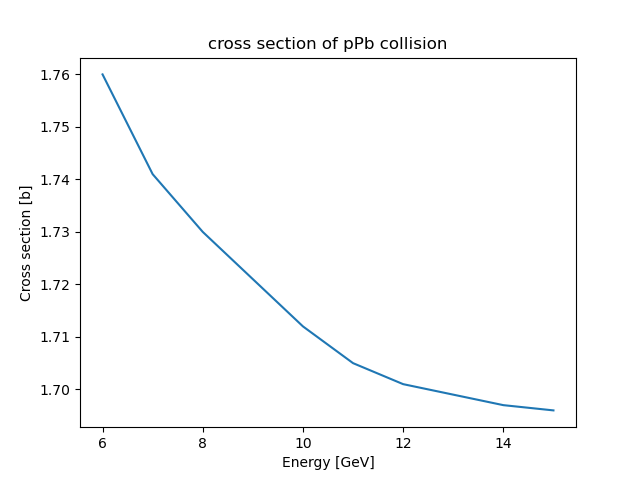
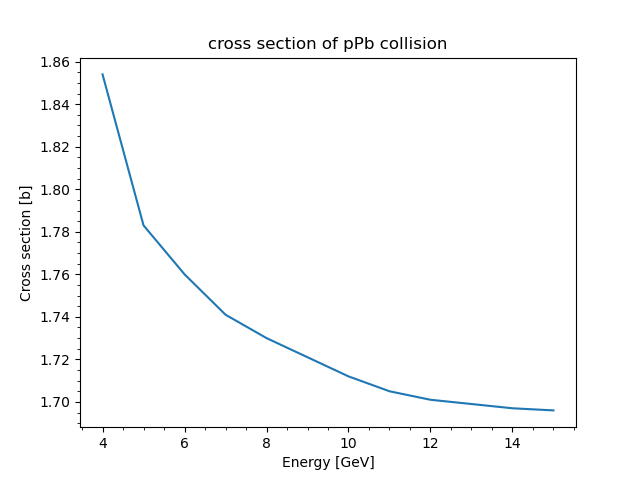
Better cross-sections

diff --git a/data/sims/simsData.py b/data/sims/simsData.py
@@ -6,50 +6,50 @@ done
 """
 
 counts = {
-    # Minimal energy:600.
-    1: {
-        5: [75825, 19],
-        10: [57377, 41],
-        15: [43298, 71],
-        20: [33110, 105],
-        25: [25357, 134],
-        30: [6451, 202],
-    },
-    # Minimal energy:1600.
-    2: {
-        5: [74617, 1],
-        10: [55789, 1],
-        15: [41383, 1],
-        20: [30731, 1],
-        25: [22860, 2],
-        30: [16108, 5],
-    },
-    # Minimal energy:2610.
-    3: {
-        5: [74820, 2],
-        10: [56101, 2],
-        15: [41576, 2],
-        20: [30988, 2],
-        25: [22670, 2],
-        30: [10876, 2],
-    },
-    # Minimal energy:3560.
+    # # Minimal energy:650.
+    # 1: {
+    #     5: [75521, 13],
+    #     10: [56919, 24],
+    #     15: [42594, 43],
+    #     20: [32092, 68],
+    #     25: [12892, 83],
+    #     30: [3954, 118],
+    # },
+    # # Minimal energy:1680.
+    # 2: {
+    #     5: [74443, 1],
+    #     10: [55413, 1],
+    #     15: [40755, 1],
+    #     20: [29836, 1],
+    #     25: [12984, 1],
+    #     30: [676, 4],
+    # },
+    # # Minimal energy:2640.
+    # 3: {
+    #     5: [74778, 2],
+    #     10: [56010, 2],
+    #     15: [41393, 2],
+    #     20: [30660, 2],
+    #     25: [22122, 2],
+    #     30: [589, 2],
+    # },
+    # Minimal energy:3600.
     4: {
-        5: [74873, 4],
-        10: [56110, 4],
-        15: [41711, 4],
-        20: [31055, 4],
-        25: [22867, 4],
-        30: [16543, 4],
+        5: [74796, 4],
+        10: [55974, 4],
+        15: [41515, 4],
+        20: [30801, 4],
+        25: [22476, 4],
+        30: [11043, 4],
     },
-    # # Minimal energy:4500.
+    # Minimal energy:4550.
     5: {
-        5: [75013, 0],
-        10: [56247, 0],
-        15: [41843, 0],
-        20: [31256, 0],
-        25: [23045, 0],
-        30: [16961, 0],
+        5: [74888, 0],
+        10: [56033, 0],
+        15: [41608, 0],
+        20: [30997, 0],
+        25: [22733, 0],
+        30: [16307, 0],
     },
     # Minimal energy:5400.
     6: {

diff --git a/data/crossSections.py b/data/crossSections.py
@@ -25,11 +25,16 @@ for en in counts.keys():
     print("σ\u209A\u208A(", en, "GeV)=", crossSectionByLengths(counts[en]), "b")
     crossSections.append(crossSectionByLengths(counts[en]))
 
-plt.plot(counts.keys(), crossSections)
-plt.title("cross section of pPb collision")
-plt.xlabel("Energy [GeV]")
-plt.ylabel("Cross section [b]")
-plt.savefig("cross(E).png")
+fig = plt.figure()
+ax = fig.add_subplot()
+ax.plot(counts.keys(), crossSections)
+ax.set_title("cross section of pPb collision")
+ax.set_xlabel("Energy [GeV]")
+ax.set_ylabel("Cross section [b]")
+# ax.set_xscale("log")
+ax.minorticks_on()
+fig.savefig("cross(E).png")
+ax.set_xticks([10, 15])
 plt.show()
 
 # https://inspirehep.net/files/8cb839c04600858cdde2de6640a11bbc
